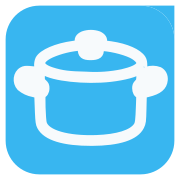
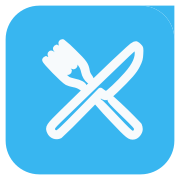
feat: implement AdminGuard for admin route protection and update related routes

Changed region(s): [[0.0556, 0.1667, 0.9444, 0.8333]]

diff --git a/src/features/admin/parts/admin-guard.tsx b/src/features/admin/parts/admin-guard.tsx
@@ -1,0 +1,93 @@
+import { useEffect, type ReactNode } from 'react';
+
+import { useNavigate, useRouterState } from '@tanstack/react-router';
+import { Show } from 'meemaw';
+
+import { useSession } from '@features/auth';
+import { buildNext, NEXT_PARAM } from '@features/auth/hooks/use-next-path';
+import { KoboyoIcon } from '@icons';
+import { ROUTES } from '@shared/constants/routes';
+import { Button } from '@ui/primitives';
+
+/** Roles that may see the console at all. */
+const CONSOLE_ROLES: readonly string[] = ['admin', 'super_admin'];
+
+/**
+ * Gates the console.
+ *
+ * The admin routes had NO guard — every screen rendered for anybody who typed
+ * the url. The requests behind them all 403, so no data leaked, but showing the
+ * shell of a console to a stranger is its own problem: it advertises what
+ * exists and looks like a way in.
+ *
+ * Three outcomes:
+ *   not signed in       → the console sign-in, carrying where they were going
+ *   signed in, no role  → told plainly, with a way back to the app
+ *   admin or above      → render
+ *
+ * This is CONVENIENCE, not security. The server checks the role on every one of
+ * the twenty-one admin endpoints, and that is what actually protects the data —
+ * a hidden route is not a permission.
+ */
+export function AdminGuard({ children }: { readonly children: ReactNode }) {
+  const { user, isSignedIn, isLoading } = useSession();
+  const navigate = useNavigate();
+  const pathname = useRouterState({ select: (state) => state.location.pathname });
+  const searchStr = useRouterState({ select: (state) => state.location.searchStr });
+
+  const isOperator = user !== null && CONSOLE_ROLES.includes(user.role);
+
+  useEffect(() => {
+    if (isLoading || isSignedIn) return;
+
+    // Already on the console sign-in? Nothing to do — see the redirect loop
+    // this exact check exists to prevent in RouteGuard.
+    if (pathname === ROUTES.ADMIN_LOGIN) return;
+
+    void navigate({
+      to: ROUTES.ADMIN_LOGIN,
+      search: { [NEXT_PARAM]: buildNext(pathname, searchStr) } as never,
+      replace: true,
+    });
+  }, [isLoading, isSignedIn, navigate, pathname, searchStr]);
+
+  // Nothing while the session resolves. Rendering the signed-out view first and
+  // correcting a tick later flashes a login screen at an operator who is
+  // already signed in.
+  if (isLoading) return null;
+
+  /**
+   * Signed in, but not an operator.
+   *
+   * Told plainly instead of bounced. Somebody who lands here from a shared
+   * link deserves to know why it did not work, and silently redirecting an
+   * account that IS signed in reads as a bug.
+   */
+  if (isSignedIn && !isOperator) {
+    return (
+      <div className="counter grid min-h-dvh place-items-center bg-paper px-5">
+        <div className="w-full max-w-[420px] rounded-blade border border-line bg-white p-8 text-center">
+          <KoboyoIcon name="lockShownOpenClosed" size={36} className="text-ink-3" alone />
+          <h1 className="mt-4 font-display text-xl font-extrabold tracking-display">
+            Not your console
+          </h1>
+          <p className="mt-2 text-sm text-ink-2">
+            This account does not have console access. If that is wrong, somebody with an admin
+            account can change it.
+          </p>
+          <Button
+            className="mt-5"
+            fullWidth
+            onClick={() => {
+              void navigate({ to: ROUTES.KITCHEN });
+            }}
+          >
+            Back to my kitchen
+          </Button>
+        </div>
+      </div>
+    );
+  }
+
+  return <Show when={isOperator}>{children}</Show>;
+}

diff --git a/src/ui/icons/koboyo-data.ts b/src/ui/icons/koboyo-data.ts
@@ -1,5 +1,5 @@
 /**
- * koboyo hand-drawn icon geometry — 186 icons.
+ * koboyo hand-drawn icon geometry — 187 icons.
  *
  * `foodBankShelf` was fetched from the live library after the generated pass —
  * a pantry shelf reads as stored food in a way the plain `shelf` does not.
@@ -1119,6 +1119,12 @@ export const KOBOYO_GLYPHS = {
     w: 128.0,
     h: 139.0,
     d: '<path d="M54.9 8.3A33 33 0 0 0 30 41.8a31 31 0 0 0 10.4 24c6.5 6 12.5 8.4 21.6 9 9.5.5 16.8-2 23.7-8.3A30 30 0 0 0 96.8 43a31 31 0 0 0-8.2-24.6A35 35 0 0 0 54.9 8.3m19.7 6.6a31 31 0 0 1 14.2 13.5 30 30 0 0 1 .2 25 28 28 0 0 1-45.5 7.8c-5.8-5.7-8-11.3-7.9-20.2.1-12 6-21.2 16.8-26.1a34 34 0 0 1 22.2 0M40 85.6a43 43 0 0 0-32.9 32.2c-1.5 7.3-1.4 12.7.4 14.2 2.6 2.2 4.5-.5 4.5-6.4 0-15.1 9.4-27.4 25.5-33.6 5.1-1.9 8.4-2.4 21.7-2.8 24.7-.7 36.6 2.5 46 12.6 6.8 7.2 9 12.3 9.6 21.4.5 8.5 1.9 11.1 4.8 8.7 1.4-1.1 1.6-2.7 1.1-8.8-1.4-18.1-14.3-32.4-33.8-37.6a184 184 0 0 0-46.9.1"/>',
+  },
+  utensilsCrossed: {
+    vb: '0 0 158 156',
+    w: 158.0,
+    h: 156.0,
+    d: '<path d="M32.6 8.9c-1.2 1.8.7 4 13.9 16.5C61.2 39.2 64.2 43.5 66 52.3c1 5.1 4.2 10.5 7.5 12.9 3.7 2.7 4.2-1.5.7-5.9a19 19 0 0 1-3.7-8.3c-1.4-9.2-3.9-12.7-19.8-28.2A163 163 0 0 0 34.3 8q-1 0-1.7.9m107.7 2.8c-2.7.5-42.8 38.5-105.5 100-21.7 21.3-22.6 22.7-19.3 29.7a11 11 0 0 0 14.8 5.5 753 753 0 0 0 31.3-30.8l29.1-29.6 2.6 1.8c5.6 3.6 8 2.6 19.5-8.6 21-20.3 27.9-28.2 32.4-37.3 3.7-7.4 4.2-9.5 4.6-16.9.4-8.3.4-8.5-2.6-11.5a13 13 0 0 0-3.9-2.9zm4.8 8.8c1.8 10.3-3.3 21.9-15.9 36C118.2 69 101.2 85 99 85c-.9 0-3.2-1.2-5.1-2.6l-3.4-2.5-31 31.6C32.7 138.8 28.1 143 25.6 143c-3.9 0-6.6-2.6-6.6-6.3 0-2.5 1.6-4.6 8.8-11.7 7.9-7.9 78.5-75.9 102.9-99.3 11.4-10.9 13.4-11.6 14.4-5.2M24.3 17.6c-.4 1.1 3.2 5.4 12.5 14.7 12.5 12.5 13.3 13.1 14.9 11.4 1.7-1.6 1.1-2.4-11.2-14.7-7.1-7.2-13.6-13-14.3-13q-1.2.1-1.9 1.6m-7.2 7.3c-2.4 1.5-.3 4.4 11.8 16.5 8.4 8.4 12.4 11.7 13.5 11.3q1.5-.7 1.6-1.9c0-.7-5.7-7-12.7-14-9.2-9.1-13.2-12.5-14.2-11.9m-8.8 9.7C7.6 36.5 35.6 65.2 41.1 68c1.9 1 6.4 2.4 10 3a26 26 0 0 1 9.7 3.6q5.2 4 5.2-.6c0-2.7-6.2-6.1-14.2-7.6-3.8-.7-8.4-2.2-10.2-3.4A175 175 0 0 1 25 47c-7.3-7.7-13.9-14-14.7-14q-1.2.1-2 1.6"/><path d="M105.1 93.2c-1 1.1 2.8 5.1 19 20.8 18.4 17.8 20.2 19.9 20.2 22.9q0 3.4-2.2 5.3c-5 4-4.5 4.4-37.5-30.5-12.7-13.5-16.1-16.5-17.2-15.6-.8.6-1.4 1.6-1.4 2.1a492 492 0 0 0 22.6 24.9c23.4 24.7 25.5 26.4 31.8 25.2 4.1-.8 8.6-6.6 8.6-11.1a16 16 0 0 0-1.3-5.9A640 640 0 0 0 107.3 92q-1 .1-2.2 1.2"/>',
   },
   waterDrop: {
     vb: '0 0 97 154',

diff --git a/src/ui/navigation/sidebar/sidebar.tsx b/src/ui/navigation/sidebar/sidebar.tsx
@@ -16,6 +16,16 @@ import { Badge } from '@ui/status';
  * Like the tab bar, it shows **destinations, never actions**.
  */
 
+/**
+ * Navigation icons run LIGHTER than the default 1.2.
+ *
+ * A nav rail shows seven or eight marks stacked in a narrow column, and at that
+ * density the default weight turns the busier icons — the stock shelf
+ * especially — into dark blobs with no internal detail. 0.8 keeps every one of
+ * them structured while still reading as one family.
+ */
+const NAV_ICON_WEIGHT = 0.8;
+
 export interface SidebarItem {
   readonly id: string;
   readonly label: string;
@@ -105,7 +115,12 @@ export function Sidebar({
                               : 'font-semibold text-ink-2 hover:bg-paper-2 hover:text-ink',
                           )}
                         >
-                          <KoboyoIcon name={item.icon} size={18} className="shrink-0" />
+                          <KoboyoIcon
+                            name={item.icon}
+                            size={18}
+                            weight={NAV_ICON_WEIGHT}
+                            className="shrink-0"
+                          />
                           <span className="min-w-0 flex-1 truncate">{item.label}</span>
                           {/* Counts resolving — the badge's space is held so the
                               labels do not shift when the numbers land. */}

diff --git a/src/shared/ui-shell/app-shell.tsx b/src/shared/ui-shell/app-shell.tsx
@@ -144,10 +144,14 @@ export function AppShell({
           onValueChange={goTo}
           header={
             <div className="flex items-center gap-2 px-1">
-              {/* The real logo mark, not the pot icon — Kitchen wears the pot
-                  now, and the same drawing twice in one column reads as a
-                  mistake. This one is the tile, which is the brand. */}
-              <img src="/favicon.svg" alt="" width={26} height={26} className="rounded-blade-xs" />
+              {/* Crossed utensils, not the pot — Kitchen wears the pot in the
+                  nav below, and the same drawing twice in one column reads as
+                  a mistake. */}
+              <span className="grid h-[26px] w-[26px] shrink-0 place-items-center rounded-blade-xs bg-sky text-white">
+                {/* Lighter than the nav marks — it sits on solid sky, where a
+                    thinner line holds up and a heavy one fills in. */}
+                <KoboyoIcon name="utensilsCrossed" size={15} weight={0.75} alone />
+              </span>
               <span className="font-display text-lg font-extrabold tracking-display">
                 Kinni<span className="text-sky-on">Jije</span>
               </span>

diff --git a/src/ui/navigation/tab-bar/tab-bar.tsx b/src/ui/navigation/tab-bar/tab-bar.tsx
@@ -18,6 +18,16 @@ import { Badge } from '@ui/status';
  * gets misused.
  */
 
+/**
+ * Navigation icons run LIGHTER than the default 1.2.
+ *
+ * A nav rail shows seven or eight marks stacked in a narrow column, and at that
+ * density the default weight turns the busier icons — the stock shelf
+ * especially — into dark blobs with no internal detail. 0.8 keeps every one of
+ * them structured while still reading as one family.
+ */
+const NAV_ICON_WEIGHT = 0.8;
+
 export interface TabBarItem {
   readonly id: string;
   readonly label: string;
@@ -72,7 +82,7 @@ export function TabBar({ items, value, onValueChange, className }: TabBarProps) 
               )}
             >
               <span className="relative">
-                <KoboyoIcon name={item.icon} size={22} />
+                <KoboyoIcon name={item.icon} size={22} weight={NAV_ICON_WEIGHT} />
                 {item.count !== undefined && item.count > 0 && (
                   <span className="absolute -right-2 -top-1">
                     <Badge count={item.count} />

diff --git a/src/features/admin/screen/admin-recipe-detail-route.tsx b/src/features/admin/screen/admin-recipe-detail-route.tsx
@@ -1,1 +1,11 @@
-export { default } from './admin-recipe-detail-screen';
+import { AdminGuard } from '../parts/admin-guard';
+
+import Screen from './admin-recipe-detail-screen';
+
+export default function AdminRecipeDetailRoute() {
+  return (
+    <AdminGuard>
+      <Screen />
+    </AdminGuard>
+  );
+}

diff --git a/src/features/admin/screen/admin-email-detail-route.tsx b/src/features/admin/screen/admin-email-detail-route.tsx
@@ -1,1 +1,11 @@
-export { default } from './admin-email-detail-screen';
+import { AdminGuard } from '../parts/admin-guard';
+
+import Screen from './admin-email-detail-screen';
+
+export default function AdminEmailDetailRoute() {
+  return (
+    <AdminGuard>
+      <Screen />
+    </AdminGuard>
+  );
+}

diff --git a/src/features/admin/screen/admin-user-detail-route.tsx b/src/features/admin/screen/admin-user-detail-route.tsx
@@ -1,1 +1,11 @@
-export { default } from './admin-user-detail-screen';
+import { AdminGuard } from '../parts/admin-guard';
+
+import Screen from './admin-user-detail-screen';
+
+export default function AdminUserDetailRoute() {
+  return (
+    <AdminGuard>
+      <Screen />
+    </AdminGuard>
+  );
+}

diff --git a/src/features/admin/screen/admin-job-detail-route.tsx b/src/features/admin/screen/admin-job-detail-route.tsx
@@ -1,1 +1,11 @@
-export { default } from './admin-job-detail-screen';
+import { AdminGuard } from '../parts/admin-guard';
+
+import Screen from './admin-job-detail-screen';
+
+export default function AdminJobDetailRoute() {
+  return (
+    <AdminGuard>
+      <Screen />
+    </AdminGuard>
+  );
+}

diff --git a/src/features/admin/screen/admin-recipe-new-route.tsx b/src/features/admin/screen/admin-recipe-new-route.tsx
@@ -1,1 +1,11 @@
-export { default } from './admin-recipe-new-screen';
+import { AdminGuard } from '../parts/admin-guard';
+
+import Screen from './admin-recipe-new-screen';
+
+export default function AdminRecipeNewRoute() {
+  return (
+    <AdminGuard>
+      <Screen />
+    </AdminGuard>
+  );
+}

diff --git a/src/features/admin/screen/admin-dashboard-route.tsx b/src/features/admin/screen/admin-dashboard-route.tsx
@@ -1,1 +1,11 @@
-export { default } from './admin-dashboard-screen';
+import { AdminGuard } from '../parts/admin-guard';
+
+import Screen from './admin-dashboard-screen';
+
+export default function AdminDashboardRoute() {
+  return (
+    <AdminGuard>
+      <Screen />
+    </AdminGuard>
+  );
+}

diff --git a/src/features/admin/screen/admin-ai-detail-route.tsx b/src/features/admin/screen/admin-ai-detail-route.tsx
@@ -1,1 +1,11 @@
-export { default } from './admin-ai-detail-screen';
+import { AdminGuard } from '../parts/admin-guard';
+
+import Screen from './admin-ai-detail-screen';
+
+export default function AdminAiDetailRoute() {
+  return (
+    <AdminGuard>
+      <Screen />
+    </AdminGuard>
+  );
+}
